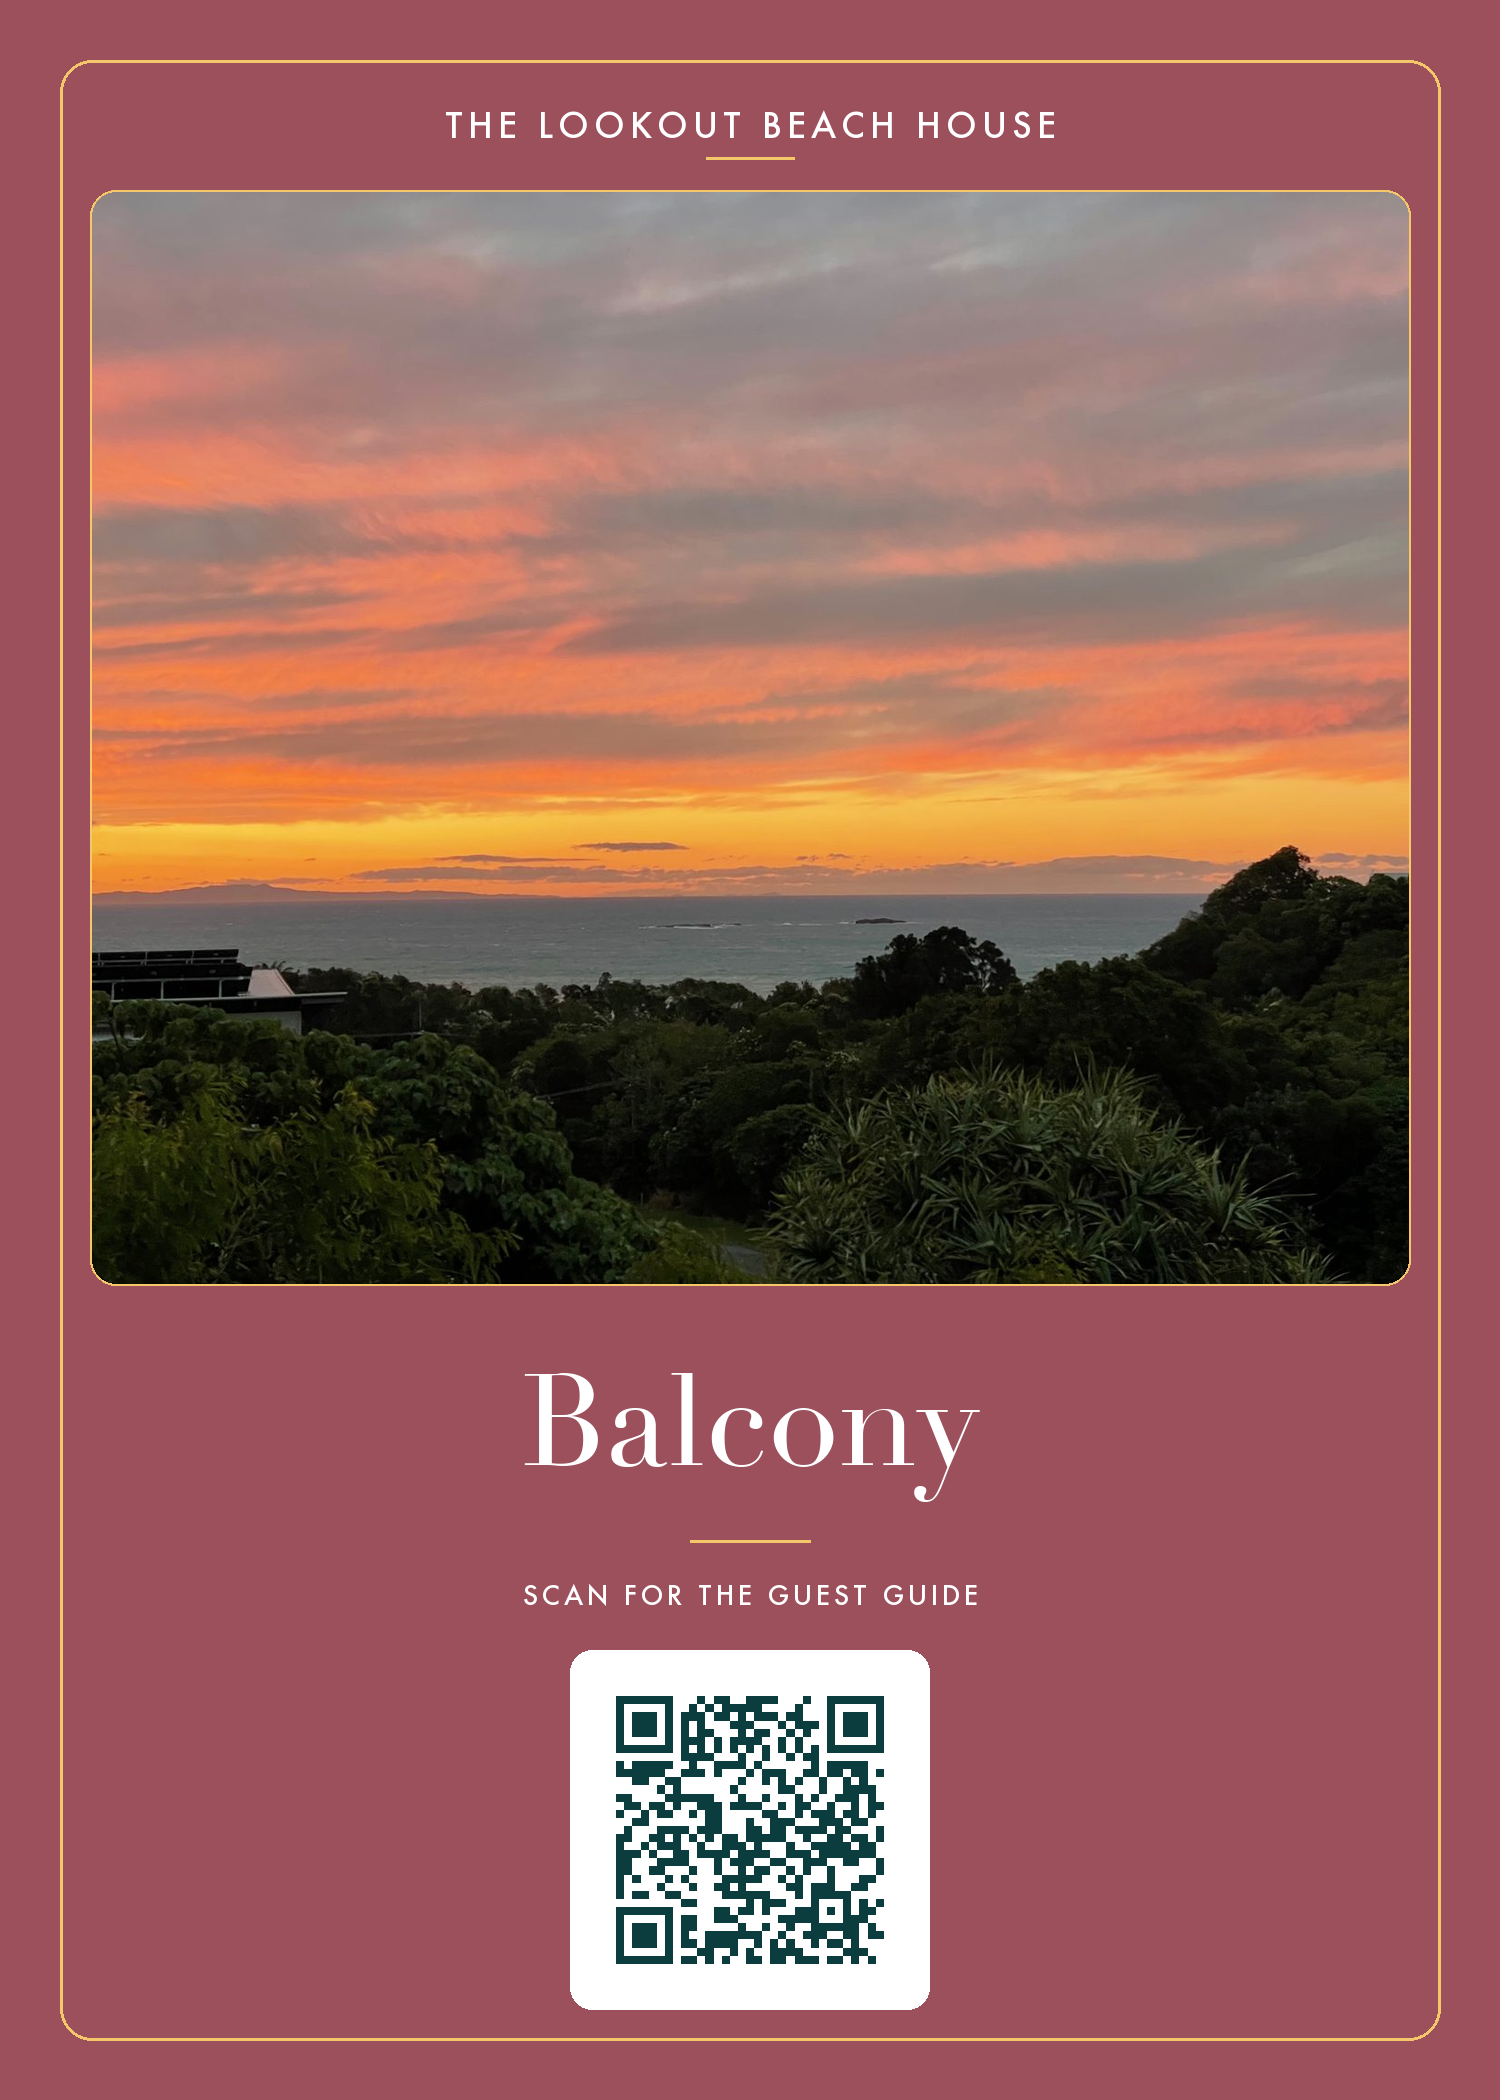
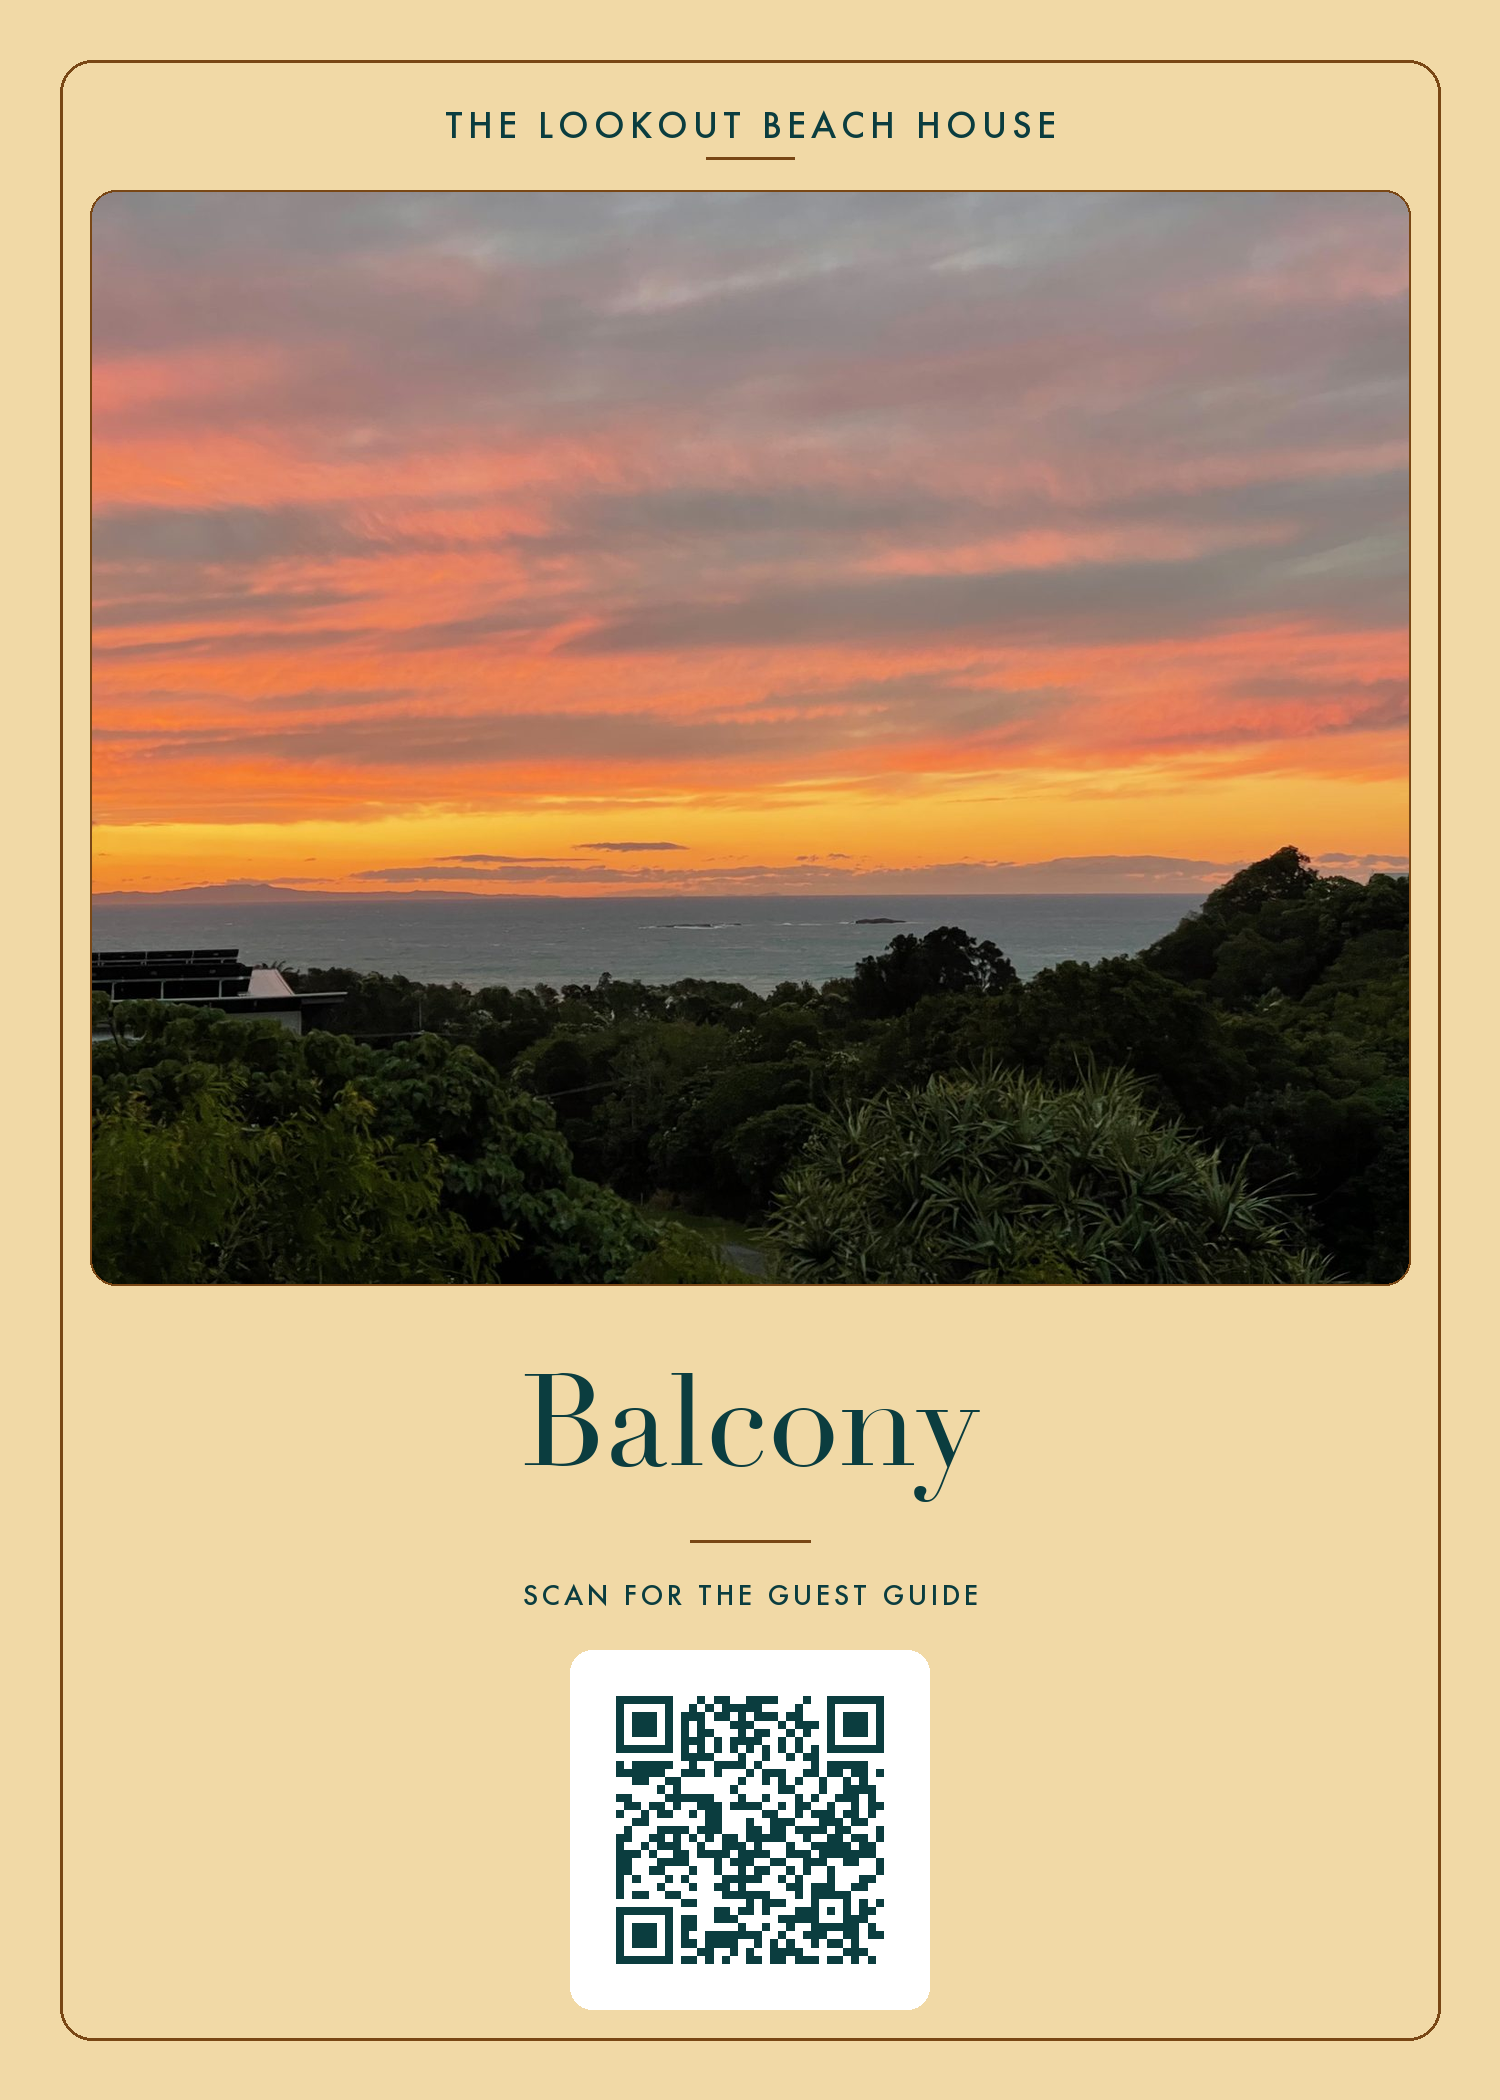
Switch room plaque palette to the house's official Coastal Colour Palette
Replaces the invented HSL-derived colours with the 13-colour named
palette sourced from the house's Coastal Colour Palette moodboard
(via ingest/), mapped one-to-one across the 11 rooms plus Wi-Fi.
Regenerated all plaques; DESIGN-SYSTEM.md documents the full palette
and mapping rationale.

diff --git a/plaques/generate.py b/plaques/generate.py
@@ -36,9 +36,10 @@ WHITE = (255, 255, 255)
 AMBER_DEEP = (121, 71, 21)   # accent on pale (sand/foam) cards — AMBER is too washed out there
 
 # The Wi-Fi plaque isn't a room, so it gets its own colour rather than one
-# from rooms.yml — see plaques/DESIGN-SYSTEM.md.
-WIFI_COLOR = (29, 22, 49)     # Night Sky
-WIFI_COLOR_NAME = "Night Sky"
+# from rooms.yml — the darkest tone in the official Coastal Colour
+# Palette, see plaques/DESIGN-SYSTEM.md.
+WIFI_COLOR = (31, 61, 77)     # Ocean Depth — #1F3D4D
+WIFI_COLOR_NAME = "Ocean Depth"
 
 HOUSE_NAME = "THE LOOKOUT BEACH HOUSE"
 

diff --git a/plaques/DESIGN-SYSTEM.md b/plaques/DESIGN-SYSTEM.md
@@ -14,43 +14,72 @@ Each plaque is a small, framed piece of house signage: a photo of the
 room, its name, and a QR code to the matching page in the guest guide.
 The set is meant to read as one family once framed around the house —
 same layout, same typography, same brand marks — while each room gets
-its own identity through colour, tied to a real element of the island's
-beaches rather than an arbitrary swatch.
+its own identity through colour, drawn from the house's official
+**Coastal Colour Palette** moodboard rather than an invented swatch.
 
 ## Colour palette
 
-One background colour per room, each named after a literal beach/coastal
-element rather than an abstract colour-story name — the point is that
-someone looking at "Sunset Clay" or "Driftwood Sand" should be able to
-picture the thing, not just the hex code.
+### Source
 
-| Room | Token | Hex | Card |
+The full palette (13 named, hex-specified colours) came in as a
+moodboard image via `ingest/` — like all raw ingest material it isn't
+committed (see `.gitignore` / `README.md`'s ingest note); this table is
+the durable, checked-in record of it:
+
+| Colour | Hex | Tier |
+|---|---|---|
+| Deep Cornflour Blue | `#26507A` | Primary |
+| Light Forest Green | `#7FA17F` | Primary |
+| Sandy Taupe | `#C8BCA6` | Primary |
+| Ocean Depth | `#1F3D4D` | Secondary |
+| Sea Glass | `#6DB7B5` | Secondary |
+| Tide Pool | `#A6D3D6` | Secondary |
+| Soft Sand | `#E7DFC9` | Secondary |
+| Driftwood | `#D8C7A6` | Secondary |
+| Dune Grass | `#A8B89A` | Secondary |
+| Coastal Green | `#6E8B6F` | Secondary |
+| Sea Foam | `#BFD8C6` | Secondary |
+| Coastal Sky | `#B7CCE1` | Secondary |
+| Sunlit Glow | `#F1D9A6` | Secondary |
+
+### Room mapping
+
+| Room | Colour | Hex | Card |
 |---|---|---|---|
-| Kitchen | Lagoon Turquoise | `#35b6ad` | light |
-| Dining Room | Sunset Clay | `#964c2c` | dark |
-| Living Room — Upstairs | Ocean Blue | `#276b9b` | dark |
-| Living Room — Downstairs | Palm Green | `#327b57` | dark |
-| Balcony | Dusk Rose | `#9b505c` | dark |
-| Bathroom | Sea Foam | `#baded5` | light |
-| Laundry | Driftwood Sand | `#c1ac90` | light |
-| Bedroom — Main | Deep Tide | `#212f50` | dark |
-| Bedroom — Flinders | Flinders Surf | `#25799d` | dark |
-| Bedroom — Frenchmans | Frenchmans Lagoon | `#227769` | dark |
-| Bedroom — Cylinder | Cylinder Gold | `#e0b152` | light |
-| Wi-Fi *(utility, not a room)* | Night Sky | `#1d1631` | dark |
+| Kitchen | Sea Glass | `#6DB7B5` | light |
+| Dining Room | Sandy Taupe | `#C8BCA6` | light |
+| Living Room — Upstairs | Coastal Sky | `#B7CCE1` | light |
+| Living Room — Downstairs | Light Forest Green | `#7FA17F` | light |
+| Balcony | Sunlit Glow | `#F1D9A6` | light |
+| Bathroom | Sea Foam | `#BFD8C6` | light |
+| Laundry | Driftwood | `#D8C7A6` | light |
+| Bedroom — Main | Deep Cornflour Blue | `#26507A` | dark |
+| Bedroom — Flinders | Tide Pool | `#A6D3D6` | light |
+| Bedroom — Frenchmans | Coastal Green | `#6E8B6F` | dark |
+| Bedroom — Cylinder | Soft Sand | `#E7DFC9` | light |
+| Wi-Fi *(utility, not a room)* | Ocean Depth | `#1F3D4D` | dark |
 
-The three beach-named bedrooms (Flinders, Frenchmans, Cylinder) each draw
-their colour from that actual beach's character — Flinders' surf, the
-calm emerald water at Frenchmans, Cylinder's golden sand and sunrise
-headland. Main (not beach-named) gets the moodiest, most premium tone,
-fitting the primary suite. Wi-Fi deliberately sits outside the beach hue
-range (indigo) so it never gets mistaken for a room.
+`Dune Grass` isn't used by any current room — free to assign if a 12th
+area gets a plaque later.
 
-**On purpose, not every colour is dark.** A real beach spans pale sand
-and sea foam as well as deep ocean and night sky — forcing every plaque
-to the same dark value read as a generic "moody hotel" palette rather
-than a beach. Four colours (Kitchen, Bathroom, Laundry, Cylinder) are
-intentionally light.
+Mapping logic: Flinders (a swimming/surf beach) gets the clear
+shallow-water **Tide Pool**; Frenchmans (calm water, bush-backed) gets
+the richer **Coastal Green**; Cylinder (its sand and sunrise headland)
+gets the palest, warmest neutral, **Soft Sand**. Main — not
+beach-named — gets the moodiest, most saturated colour in the whole set,
+**Deep Cornflour Blue**, fitting the primary suite. Wi-Fi takes
+**Ocean Depth**, the single darkest colour in the palette, so it reads
+as clearly apart from every room.
+
+**Most of the palette is pale.** Unlike a hand-picked "one deep jewel
+tone per room" approach, the actual Coastal Colour Palette leans light
+and muted — closer to painted weatherboard and sun-bleached textiles
+than saturated colour blocking. Only two rooms (Main, Wi-Fi) end up
+dark-card; light-card is now the norm, not the exception. `Coastal
+Green` (Frenchmans) and `Light Forest Green` (Living Room — Downstairs)
+sit a little under the 4.5:1 contrast rule below (4.17 and 3.76 against
+their better-contrasting ink) — still clearly legible at the room name's
+large display size, just not to the same margin as the rest of the set.
 
 ### Adaptive ink and accent
 
@@ -161,8 +190,11 @@ name like "Downstairs Living Room" — split here into kicker
 
 1. Add an entry to `plaques/rooms.yml`: `slug`, `name`, optional
    `kicker`, `url`, `background`, `color`, `color_name`.
-2. Pick a colour that (a) ties to a real beach/coastal element and (b)
-   clears the 4.5:1 contrast rule above.
+2. Pick a colour — `Dune Grass` (`#A8B89A`) is the one unused colour left
+   in the official palette above. If it's already spoken for, either
+   reuse a used colour (fine — it just won't be unique to that room) or
+   extend the palette with a new named colour that clears the 4.5:1
+   contrast rule below.
 3. Run `python3 plaques/swatches.py` to sanity-check it against the rest
    of the set before generating the full plaque.
 4. Run `python3 plaques/generate.py <slug>`.

diff --git a/plaques/README.md b/plaques/README.md
@@ -35,10 +35,10 @@ rounded-corner panel (not a full-bleed background — there's no
 legibility fight between photo and text), then the room name in Didot
 serif and a white QR card below it. Nothing ever crosses the frame line.
 
-Each room has its own background colour, one per beach/coastal element
-(Lagoon Turquoise for the Kitchen, Sunset Clay for Dining, Cylinder Gold
-for the Cylinder bedroom, and so on) — full palette and the contrast
-rules behind it are in
+Each room has its own background colour, drawn from the house's official
+Coastal Colour Palette (Sea Glass for the Kitchen, Sandy Taupe for
+Dining, Soft Sand for the Cylinder bedroom, and so on) — full palette,
+source, and the contrast rules behind it are in
 **[plaques/DESIGN-SYSTEM.md](DESIGN-SYSTEM.md)**. Run
 `python3 plaques/swatches.py` to render a review sheet of the whole
 palette (written to `plaques/output/swatches.png`, gitignored — it's a
@@ -61,8 +61,8 @@ Edit `plaques/rooms.yml`. Each entry is:
   url: house/kitchen/           # path relative to site_url in mkdocs.yml —
                                  # the QR links to site_url + this path
   background: docs/assets/images/house/kitchen/kitchen-island-and-cooktop.jpg
-  color: "#35b6ad"              # background colour — see DESIGN-SYSTEM.md
-  color_name: Lagoon Turquoise
+  color: "#6DB7B5"              # background colour — see DESIGN-SYSTEM.md
+  color_name: Sea Glass
 ```
 
 Then run `python3 plaques/generate.py <slug>`.
